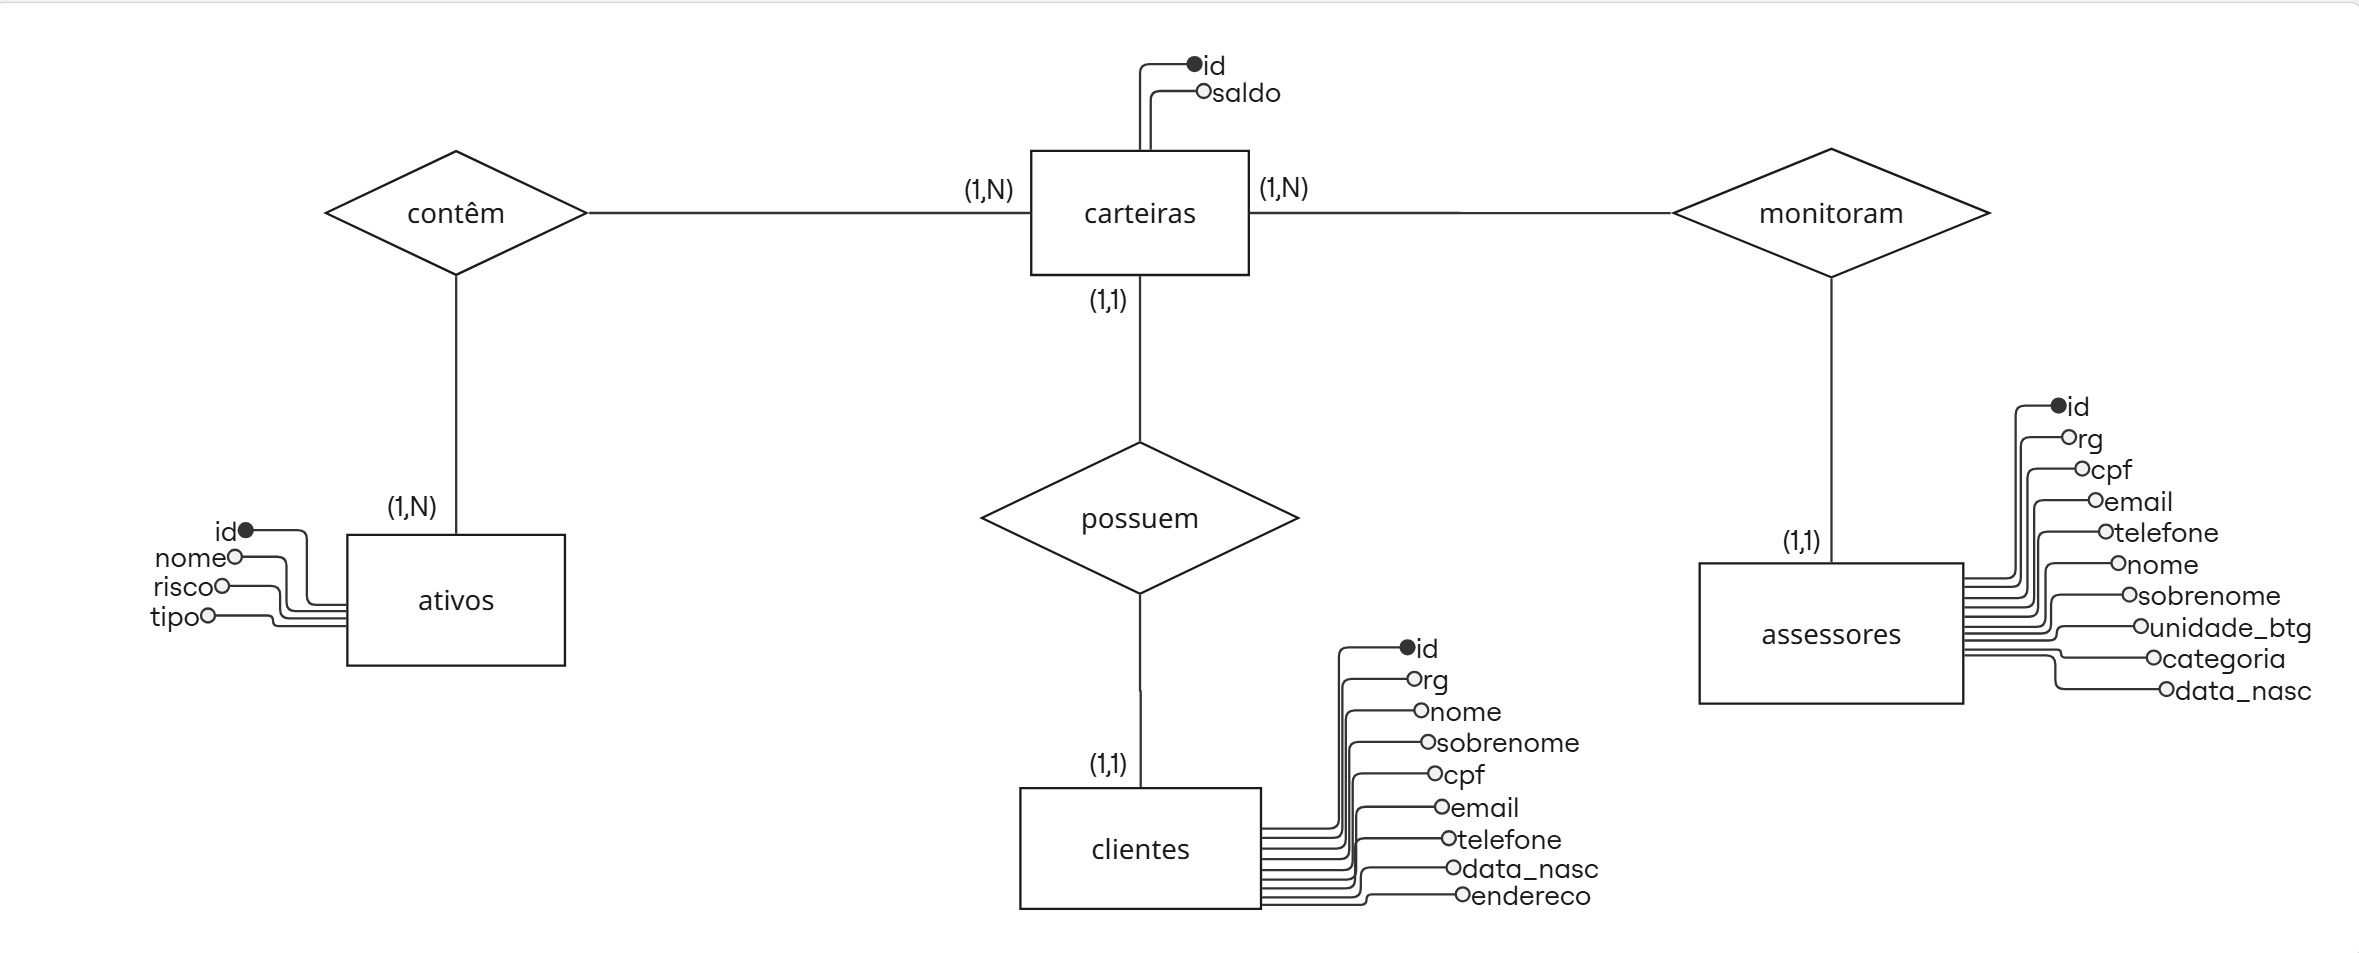
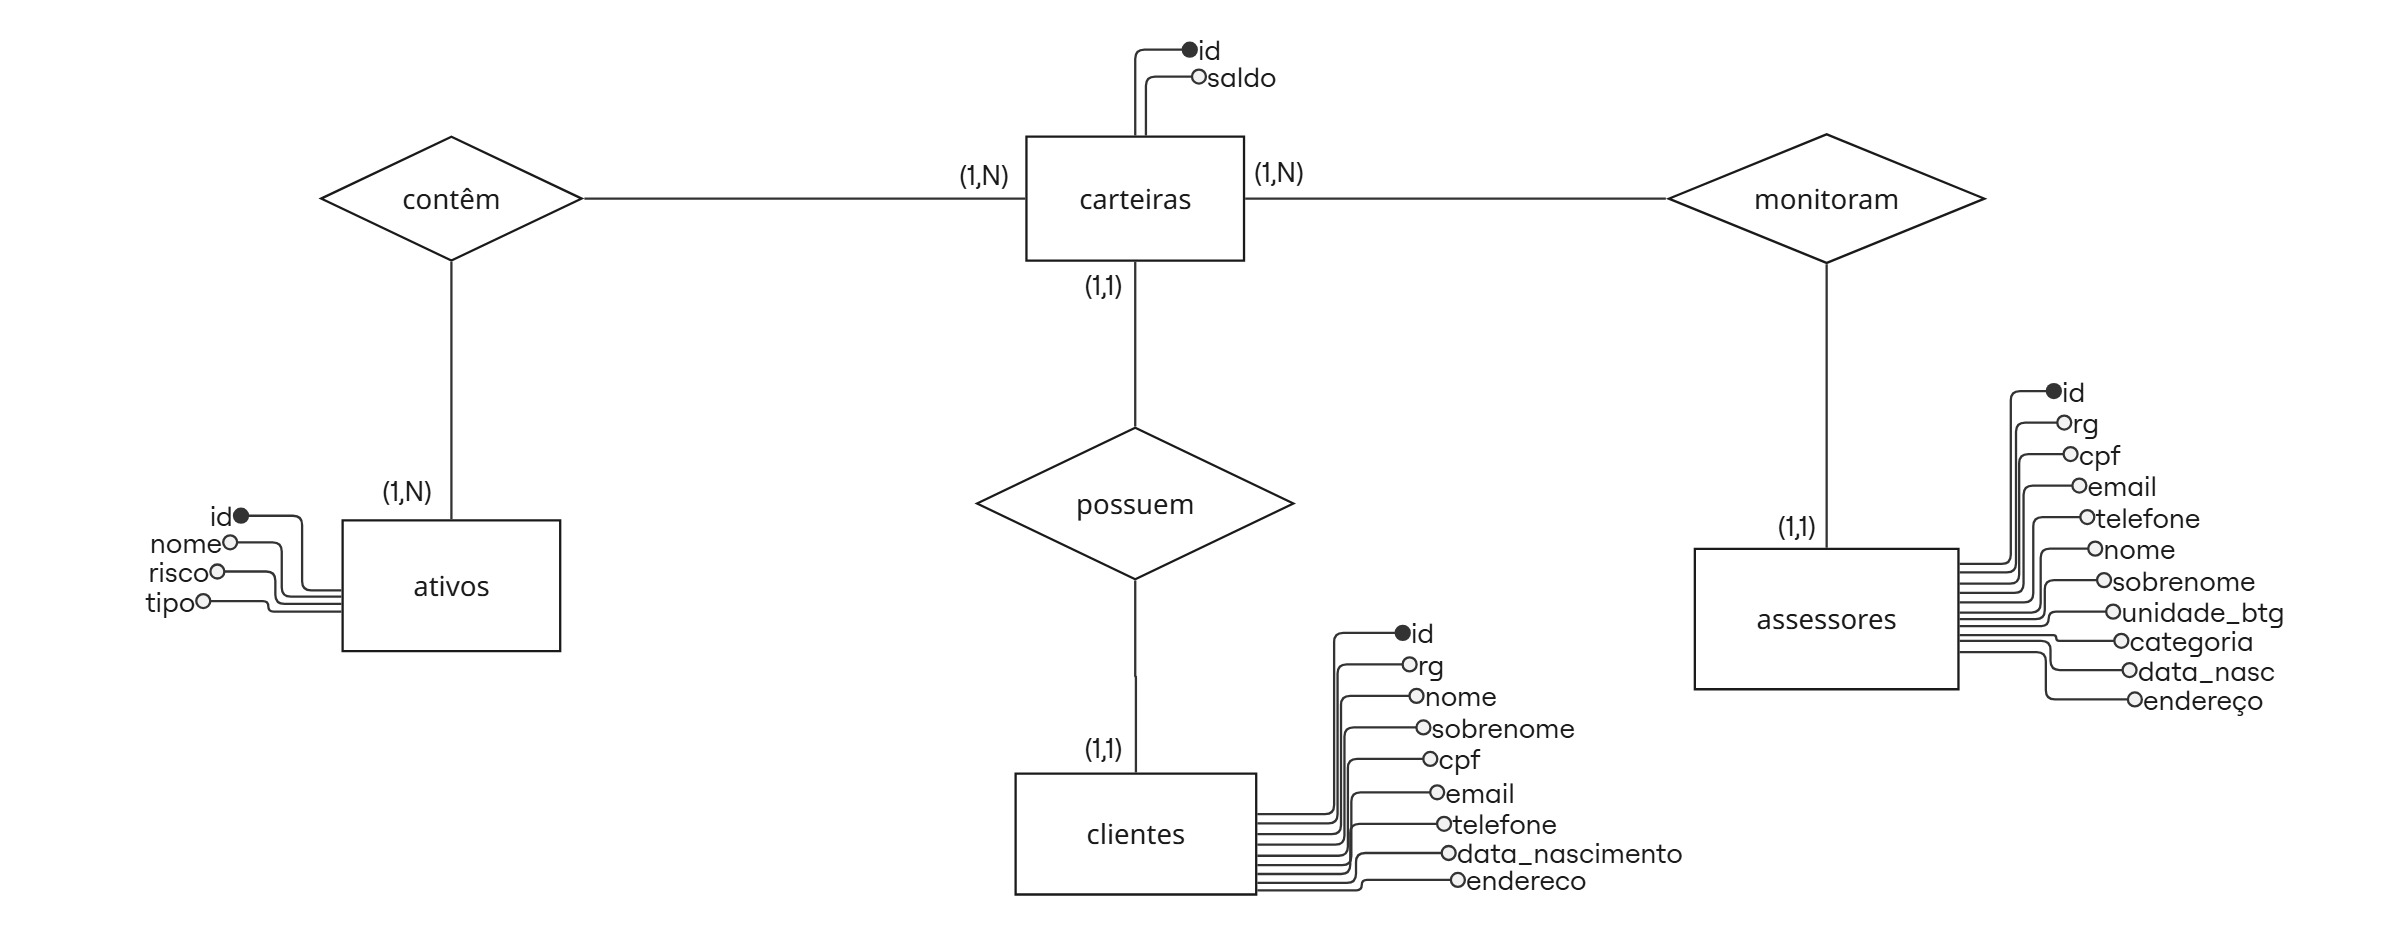
docs: corrige documentação de modelo conceitual

diff --git a/documentos/Projeto.md b/documentos/Projeto.md
@@ -628,7 +628,7 @@ Obs.: Insira aqui informações sobre a construção do artefato da Sprint 1.
 
 ## 4.2 Modelo Conceitual de Dados
 
-O modelo conceitual de dados tem como objetivo representar – de forma abstrata e sem preocupação com a implementação física – as entidades principais do sistema, seus atributos e os relacionamentos entre elas. Ele serve como base para o entendimento lógico e estruturado das regras de negócio envolvidas no domínio da aplicação.
+&emsp; O modelo conceitual de dados tem como objetivo representar – de forma abstrata e sem preocupação com a implementação física – as entidades principais do sistema, seus atributos e os relacionamentos entre elas. Ele serve como base para o entendimento lógico e estruturado das regras de negócio envolvidas no domínio da aplicação.
 
 <div align="center">
 <sub>Figura x - Modelagem Conceitual</sub><br>
@@ -636,7 +636,7 @@ O modelo conceitual de dados tem como objetivo representar – de forma abstrata
 <sup>Fonte: Material produzido pelos autores (2025) </sup>
 </div>
 
-As entidades representam itens do mundo real, e foram selecionados os seguintes:
+&emsp; As entidades representam itens do mundo real, e foram selecionados os seguintes:
 
 - **Clientes:** representam os usuários finais da plataforma, contendo informações cadastrais como nome, CPF e data de nascimento.
 
@@ -646,7 +646,7 @@ As entidades representam itens do mundo real, e foram selecionados os seguintes:
 
 - **Ativos:** produtos financeiros disponíveis para composição das carteiras dos clientes.
 
-Entre os relacionamentos e suas cardinalidades, ou seja, maneira de descrever em valores quantitativos estes relacionamentos, foram marcados por:
+&emsp; Entre os relacionamentos e suas cardinalidades, ou seja, maneira de descrever em valores quantitativos estes relacionamentos, foram marcados por:
 
 - **Clientes — Possuem — Carteiras (1:N)**
 
@@ -660,18 +660,7 @@ Entre os relacionamentos e suas cardinalidades, ou seja, maneira de descrever em
 
   Um assessor pode monitorar diversas carteiras, mas cada carteira é acompanhada por um único assessor.
 
-- **Clientes — Declaram — Perfil de Risco Declarado (1:1 ou 1:N)**
-
-  Um cliente declara um perfil de risco, e essa declaração pode ser registrada uma ou mais vezes ao longo do tempo (para histórico).
-
-- **Clientes — Possuem — Perfil de Risco Calculado (1:1 ou 1:N)**
-
-  Um cliente pode ter várias análises de perfil de risco calculado, vinculadas a diferentes carteiras ou momentos.
-
-- **Carteiras — Possuem — Perfil de Risco Calculado (1:1)**
-
-  Cada carteira possui exatamente um perfil de risco calculado, resultante da análise da composição de ativos.
-
+&emsp; O modelo conceitual existe para ser acessível a olhares diferentes do técnico. Dessa forma, é implicito neste o uso de tabelas intermediárias para relações N:N e entidades fracas. Essas estarão representadas na seção [4.3](#43-modelo-lógico-de-dados) e [4.4](#44-modelo-físico-de-dados) — modelo físico e lógico de dados respectivamente.
 
 ## 4.3 Modelo Lógico de Dados
 _conteúdo_
